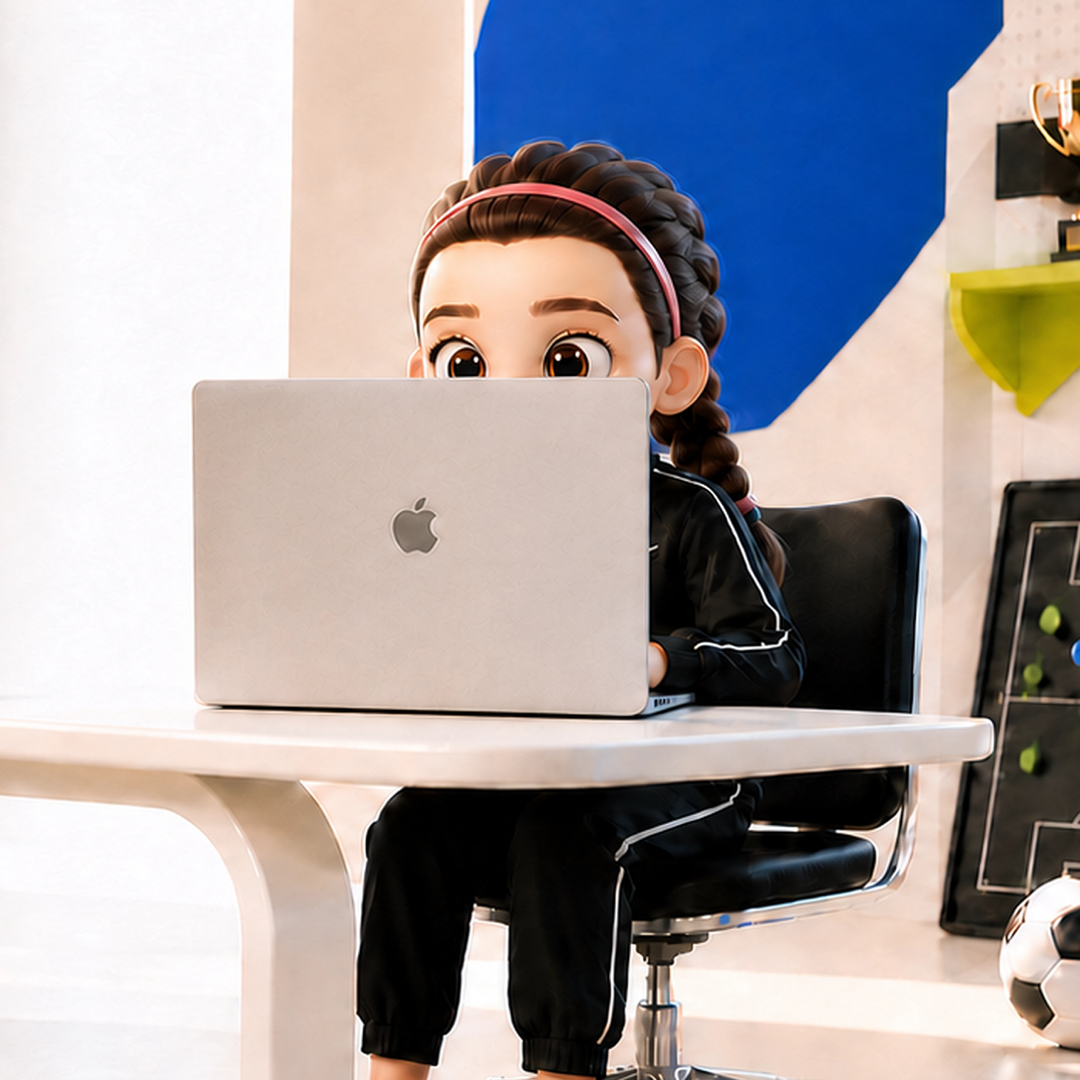
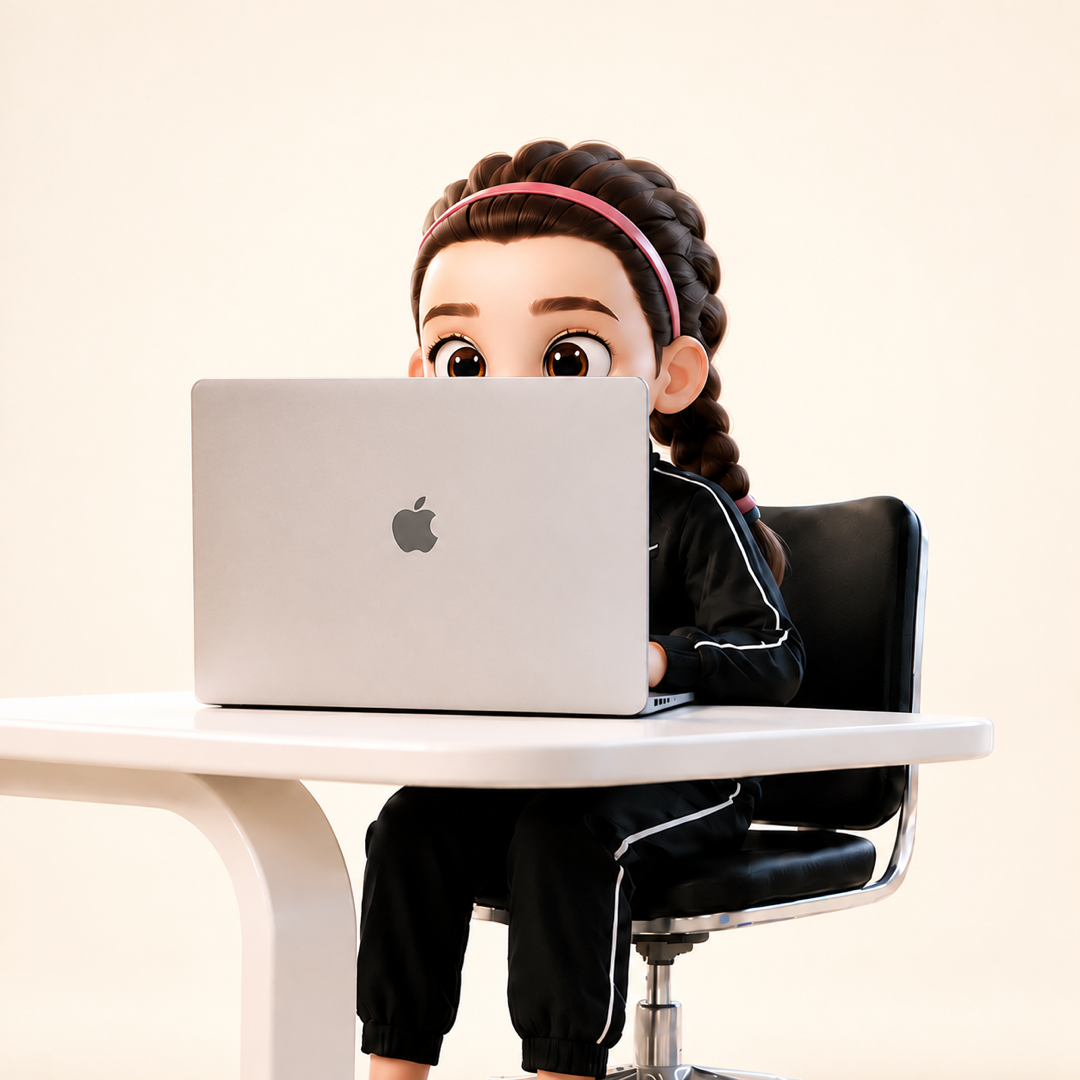
feat: simplify profile image background

diff --git a/docs/superpowers/specs/2026-09-22-instagram-profile-image-design.md b/docs/superpowers/specs/2026-09-22-instagram-profile-image-design.md
@@ -2,25 +2,25 @@
 
 ## Goal
 
-Create an Instagram profile image by cropping and resizing the current website hero image while preserving every source pixel and leaving the original hero asset unchanged.
+Create an Instagram profile image from the current website hero crop, keeping the woman-and-laptop composition while simplifying the environmental background to clean ivory. Leave the original hero asset unchanged.
 
 ## Source
 
 - Edit target: `public/media/ido-hero-studio-v7-2x.png`
-- Use the exact character appearance already rendered in this hero asset. Do not regenerate or retouch it.
+- Use the exact character appearance and laptop-obscured pose already rendered in this hero asset as the visual reference.
 
 ## Composition
 
 - Output: 1080×1080 PNG.
-- Crop a 1400×1400 square from the source at crop offset Y=220, X=1700, then resize it to 1080×1080.
-- Keep the woman and laptop exactly as they appear in the hero image, centered for Instagram's circular display mask.
-- Do not remove, add, reconstruct, or repaint any subject, prop, background detail, text, logo, or border.
+- Start from the approved 1400×1400 hero crop at crop offset Y=220, X=1700, then deliver at 1080×1080.
+- Keep the woman, laptop, desk and chair composition visually unchanged and centered for Instagram's circular display mask.
+- Replace the environmental background with a seamless warm ivory backdrop. Remove the blue wall shape, trophy, shelf, tactics board, football and other background decor.
 
 ## Identity constraints
 
-- No generative image editing.
-- No retouching, reconstruction, inpainting, outpainting, or identity reinterpretation.
-- Only deterministic crop and resize operations are allowed.
+- Change only the background; preserve the character's face, hair, headband, braid, expression, pose, clothing and proportions.
+- Preserve the laptop, desk and chair placement and their visible details.
+- No identity reinterpretation, added objects, text, watermark or border.
 
 ## Delivery
 
